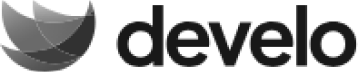
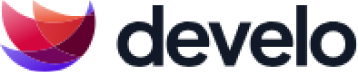
companies

Changed region(s): [[0.0, 0.0, 0.2765, 1.0]]

diff --git a/src/Component/PortfolioCompanies/Companies.jsx b/src/Component/PortfolioCompanies/Companies.jsx
@@ -112,7 +112,7 @@ export default function Companies() {
             {
                 companieslogo.map((item, index) => {
                     return (
-                        <div key={index} className="flex w-72 h-28 justify-center items-center bg-white px-[72.53px] py-[36.175px] border-[0.678px] border-solid border-[rgba(17,19,24,0.12)]">
+                        <div key={index} className="flex w-72 h-28 justify-center items-center bg-white px-[72.53px] py-[36.175px] border-[0.678px] border-solid border-[rgba(17,19,24,0.12)] mix-blend-luminosity hover:mix-blend-normal">
                             <Link to={item.link} target="framename"><img src={item.image} alt={item.link} /></Link>
                         </div>
                     )
